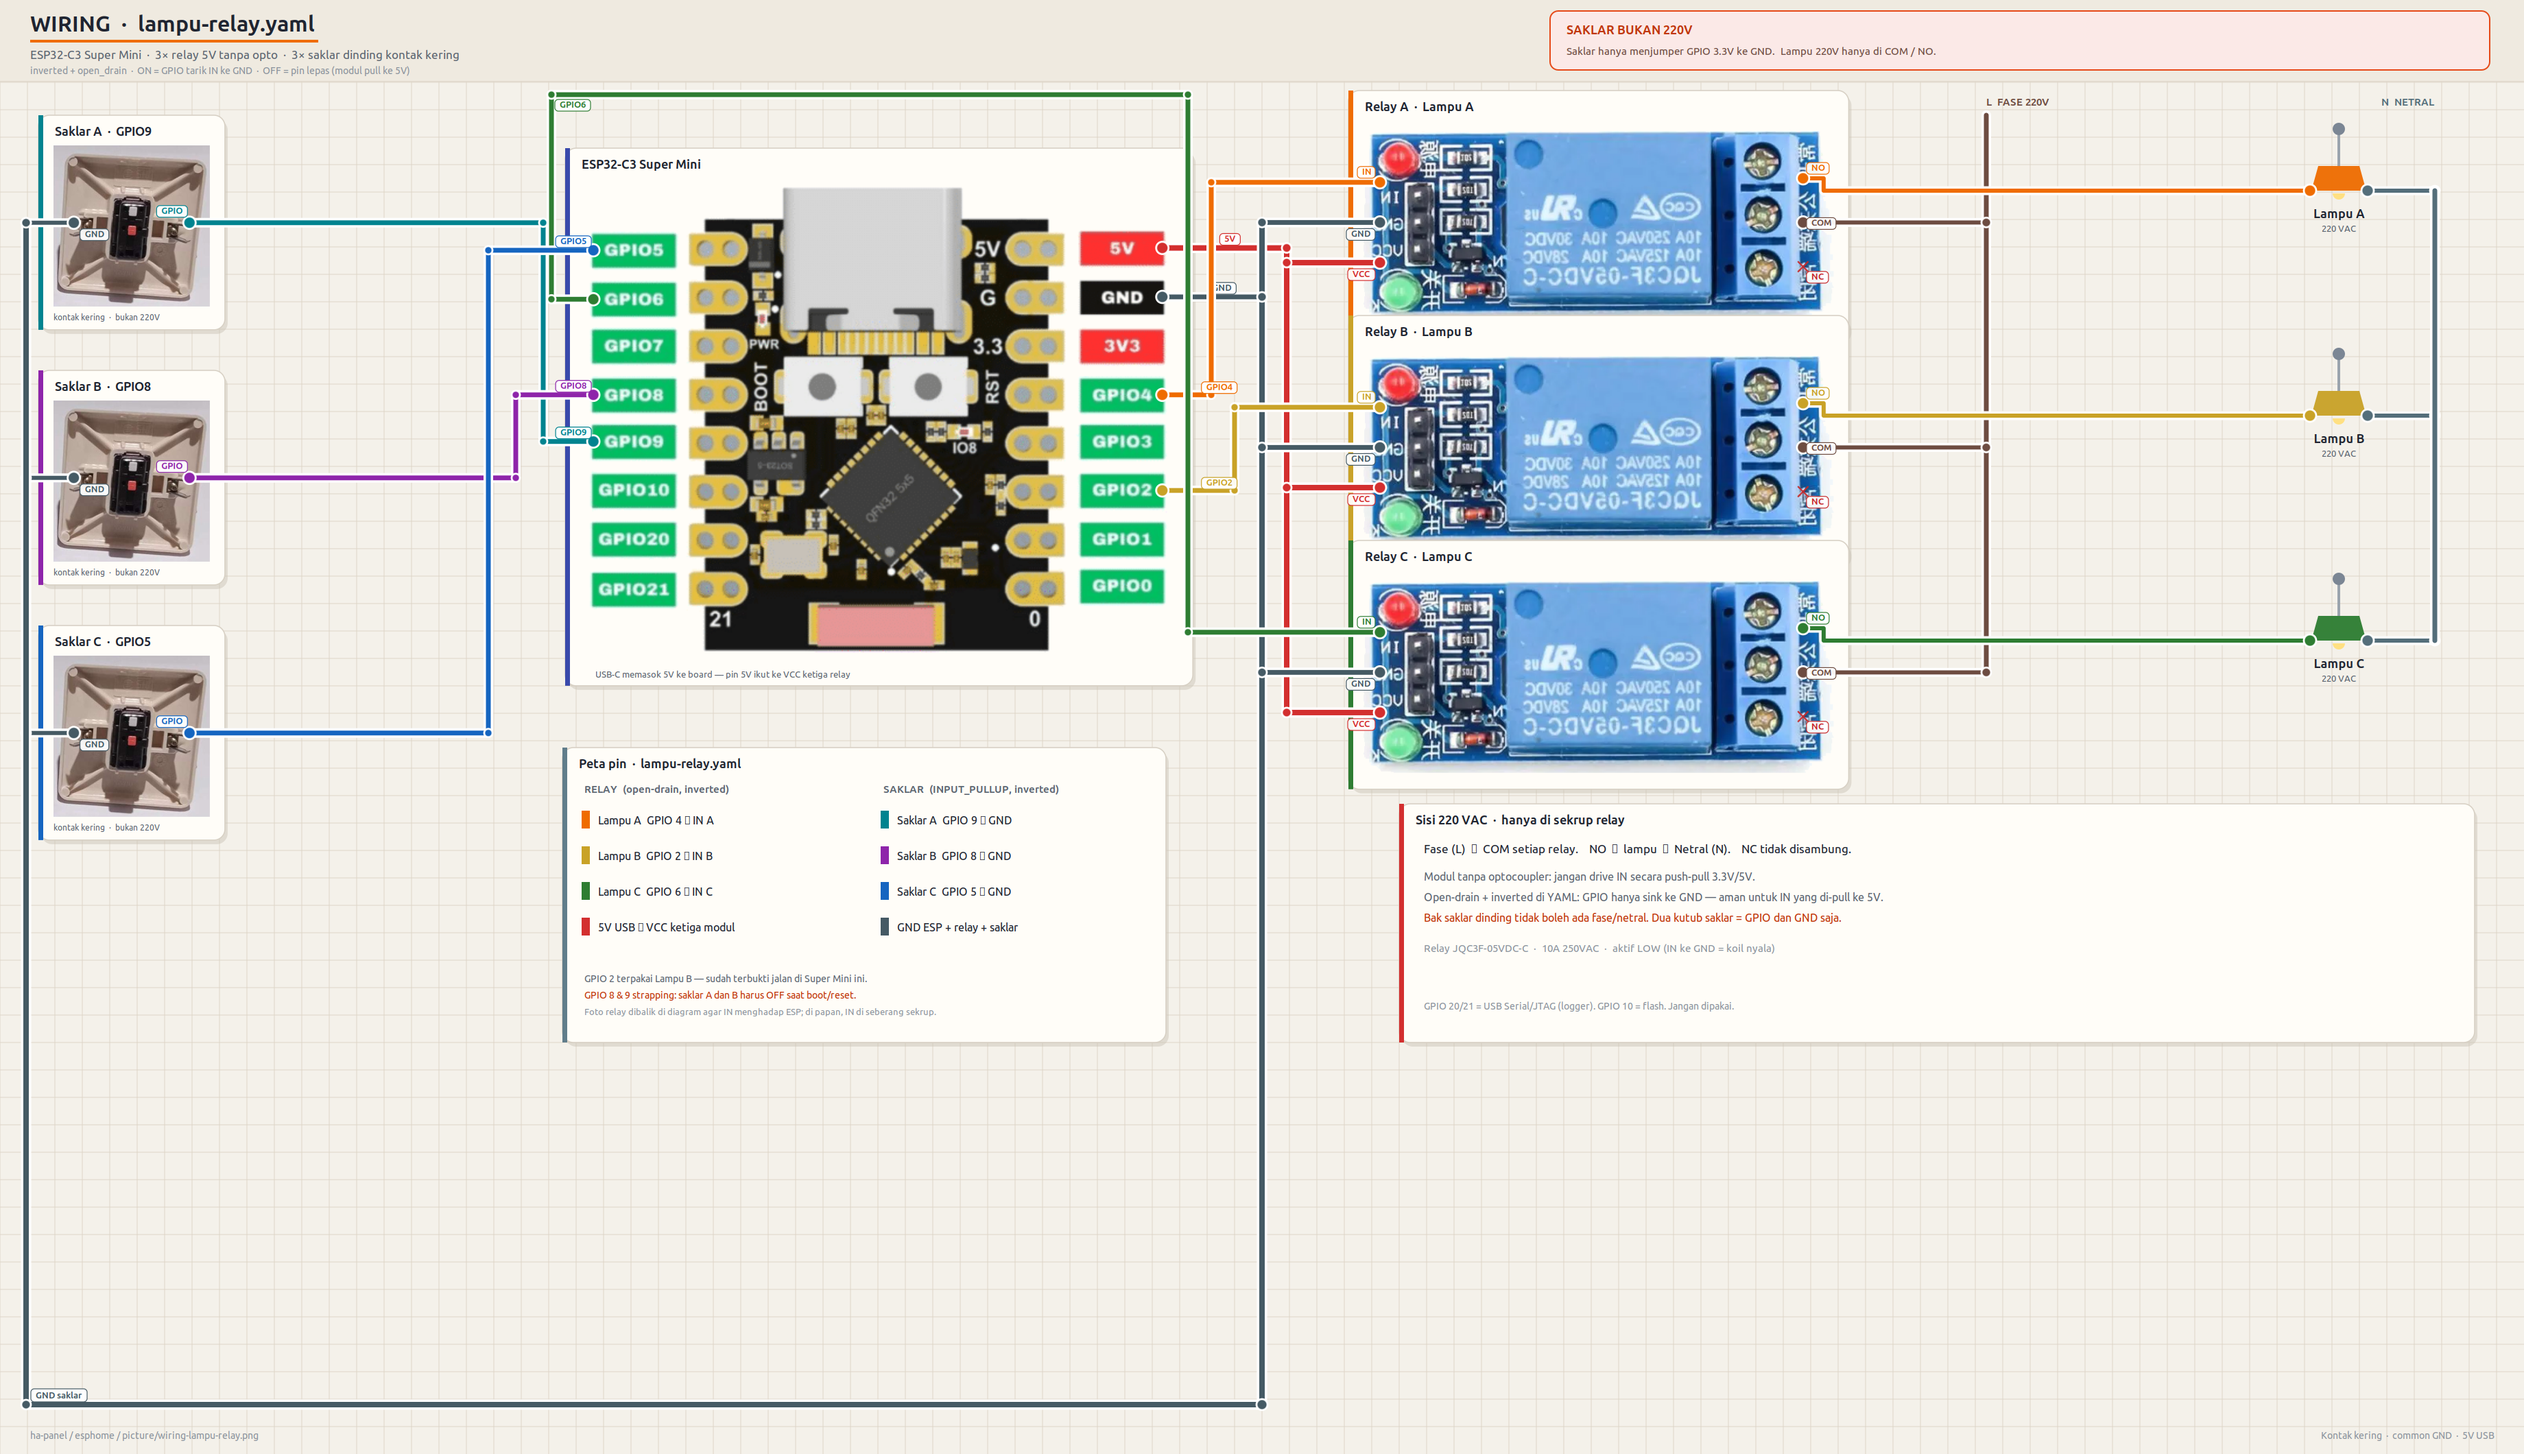
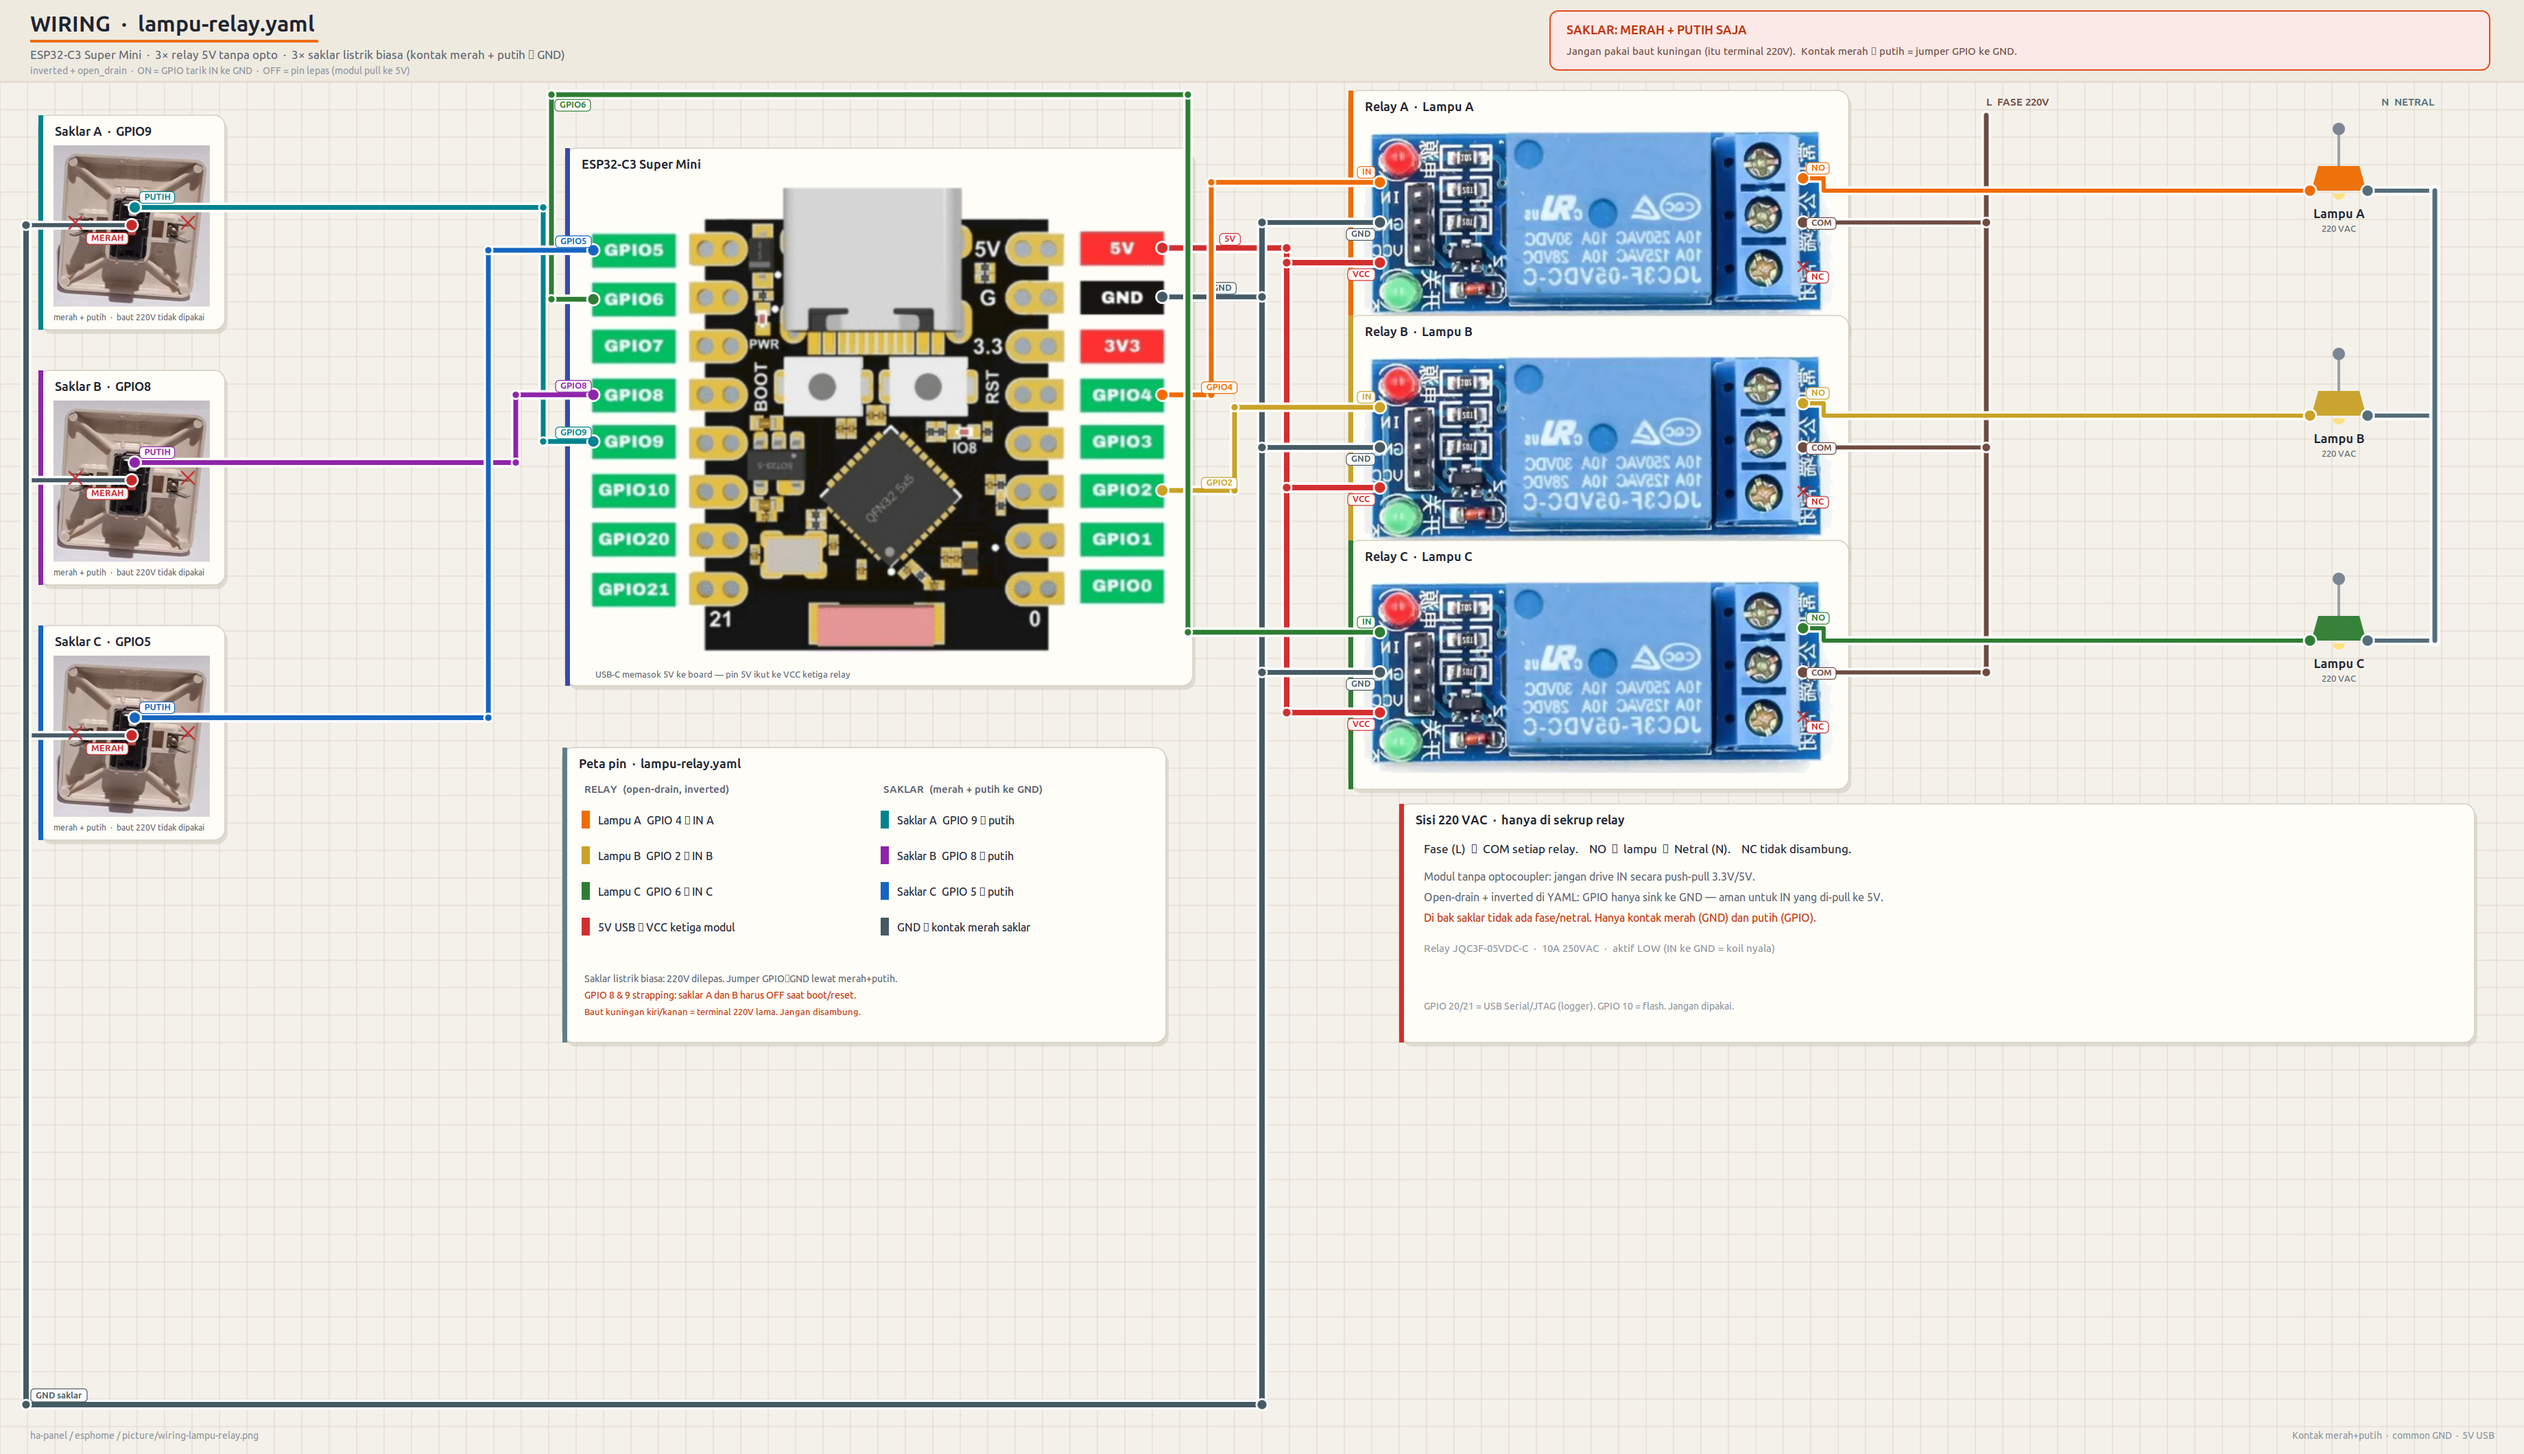
Document that wall switches use red/white contacts, not the 220V screws.
The switch is a normal mains rocker reused as a GPIO-to-GND jumper via the red and white pads on the mechanism.

diff --git a/README.md b/README.md
@@ -1,6 +1,6 @@
 # ESPHome Lampu Relay
 
-Kontrol **3 lampu 220 V** dari Home Assistant, plus **3 saklar dinding fisik**, memakai ESP32-C3 Super Mini dan modul relay 5 V tanpa optocoupler.
+Kontrol **3 lampu 220 V** dari Home Assistant, plus **3 saklar listrik dinding biasa** yang hanya dipakai sebagai jumper GPIO ke GND, memakai ESP32-C3 Super Mini dan modul relay 5 V tanpa optocoupler.
 
 Firmware: [ESPHome](https://esphome.io/). Lisensi: [MIT](LICENSE).
 
@@ -25,7 +25,7 @@ Jangan pakai push-pull 3.3 V ke IN. Banyak modul 5 V tanpa opto tidak klik, atau
 |---|---|---|
 | 1 | ESP32-C3 Super Mini | USB-C, 4 MB flash |
 | 3 | Relay 5 V 1 channel | JQC3F-05VDC-C, **tanpa** optocoupler, header IN / GND / VCC |
-| 3 | Saklar dinding | Kontak kering (2 kutub). Bukan saklar 220 V |
+| 3 | Saklar dinding listrik biasa | 220 V dilepas. Pakai kontak **merah** dan **putih** di mekanisme, **bukan** baut kuningan |
 | — | USB-C 5 V | Menyuplai ESP dan VCC ketiga relay |
 
 <p align="center">
@@ -34,7 +34,7 @@ Jangan pakai push-pull 3.3 V ke IN. Banyak modul 5 V tanpa opto tidak klik, atau
   <img src="picture/switch-saklar-lampu.png" alt="Belakang saklar dinding kontak kering" width="220">
 </p>
 
-Saklar di foto: dua sekrup kuningan di kiri/kanan rocker. Itu yang dihubungkan ke GPIO dan GND.
+Saklar di foto adalah saklar listrik biasa. Yang disambung ke ESP: kotak **putih** (GPIO) dan **merah** (GND) di mekanisme hitam. Baut kuningan kiri/kanan adalah terminal 220 V lama — **jangan dipakai**. On = merah terhubung ke putih = GPIO ke GND.
 
 ## Peta pin
 
@@ -43,11 +43,11 @@ Saklar di foto: dua sekrup kuningan di kiri/kanan rocker. Itu yang dihubungkan k
 | Lampu A → Relay A IN | 4 | oranye |
 | Lampu B → Relay B IN | 2 | kuning |
 | Lampu C → Relay C IN | 6 | hijau |
-| Saklar A | 9 | cyan |
-| Saklar B | 8 | ungu |
-| Saklar C | 5 | biru |
+| Saklar A | 9 → kontak **putih** | cyan |
+| Saklar B | 8 → kontak **putih** | ungu |
+| Saklar C | 5 → kontak **putih** | biru |
 | VCC ketiga relay | pin **5V** (dari USB-C) | merah |
-| GND ESP + relay + saklar | pin **G** | abu-abu |
+| GND ESP + relay + saklar | pin **G** → kontak **merah** saklar | abu-abu |
 
 GPIO **2** dipakai Lampu B dan sudah diuji di Super Mini ini (open-drain ke IN relay).
 
@@ -65,9 +65,9 @@ Sinyal 3.3 V dan 220 V dipisah total.
 **Sisi ESP (aman disentuh):**
 
 1. USB-C 5 V ke Super Mini. Pin **5V** board → **VCC** ketiga relay.
-2. **GND** board → **GND** ketiga relay → satu kutub setiap saklar.
+2. **GND** board → **GND** ketiga relay → kontak **merah** setiap saklar.
 3. GPIO 4 / 2 / 6 → **IN** Relay A / B / C.
-4. GPIO 9 / 8 / 5 → kutub lain Saklar A / B / C.
+4. GPIO 9 / 8 / 5 → kontak **putih** Saklar A / B / C.
 
 **Sisi 220 VAC (hanya di sekrup relay):**
 
@@ -79,7 +79,7 @@ Di modul fisik, header IN/GND/VCC ada di **seberang** sekrup COM/NO/NC. Diagram 
 
 ### Peringatan
 
-- Saklar dinding **bukan** 220 V. Di bak saklar hanya GPIO dan GND.
+- Saklar tetap model listrik biasa, tapi **220 V dilepas**. Di bak saklar hanya kontak merah (GND) dan putih (GPIO). Baut kuningan tidak disambung.
 - 220 V hanya di terminal sekrup relay. Matikan MCB sebelum merakit sisi AC.
 - Relay 10 A / 250 VAC. Sesuaikan dengan beban lampu.
 
